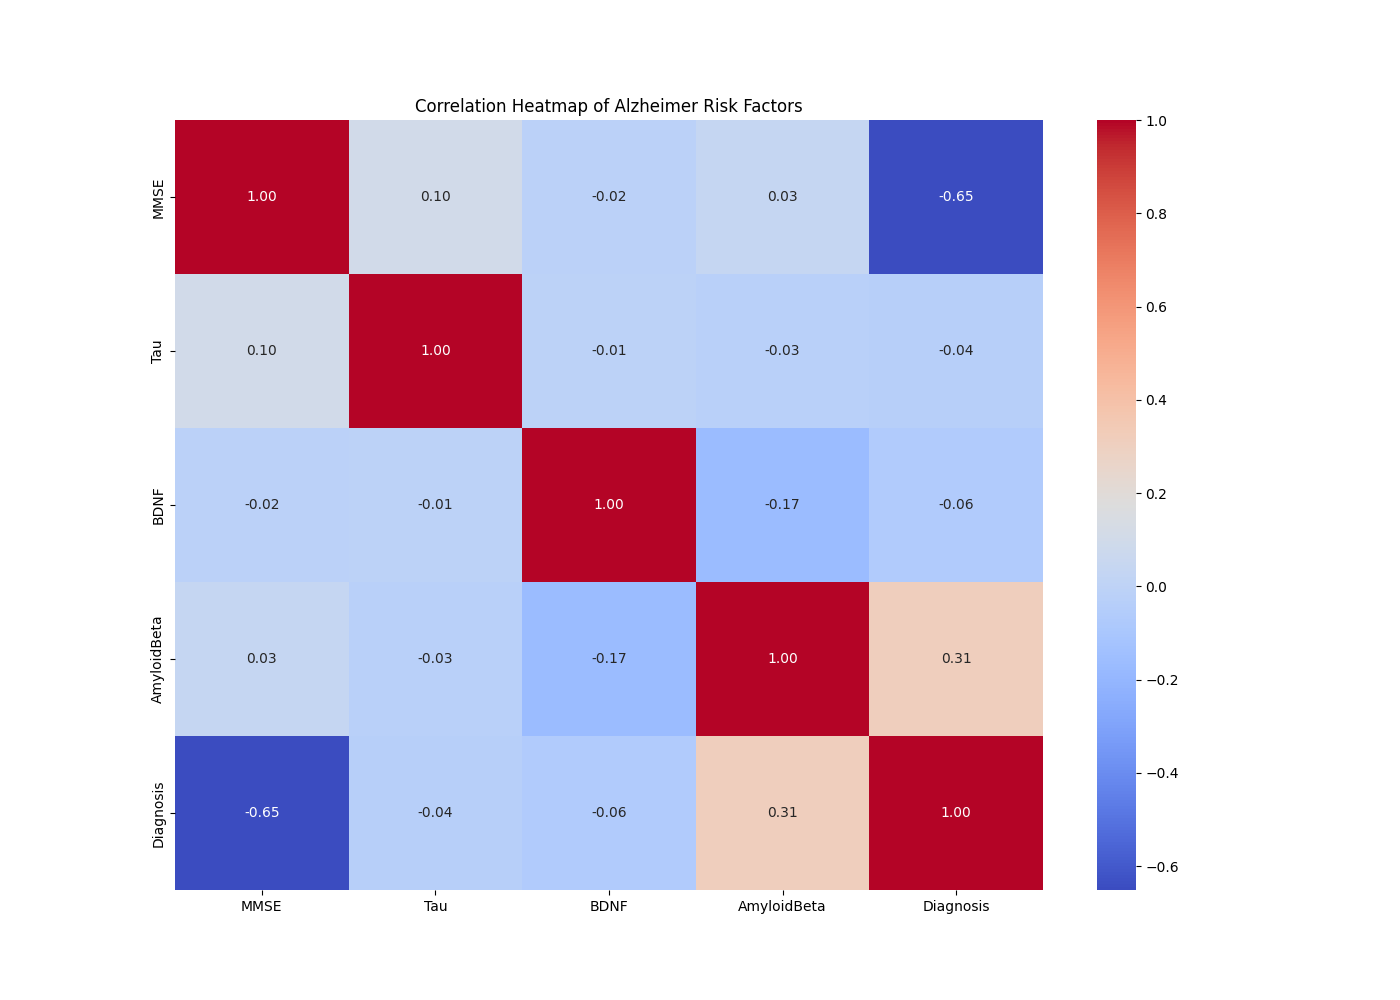
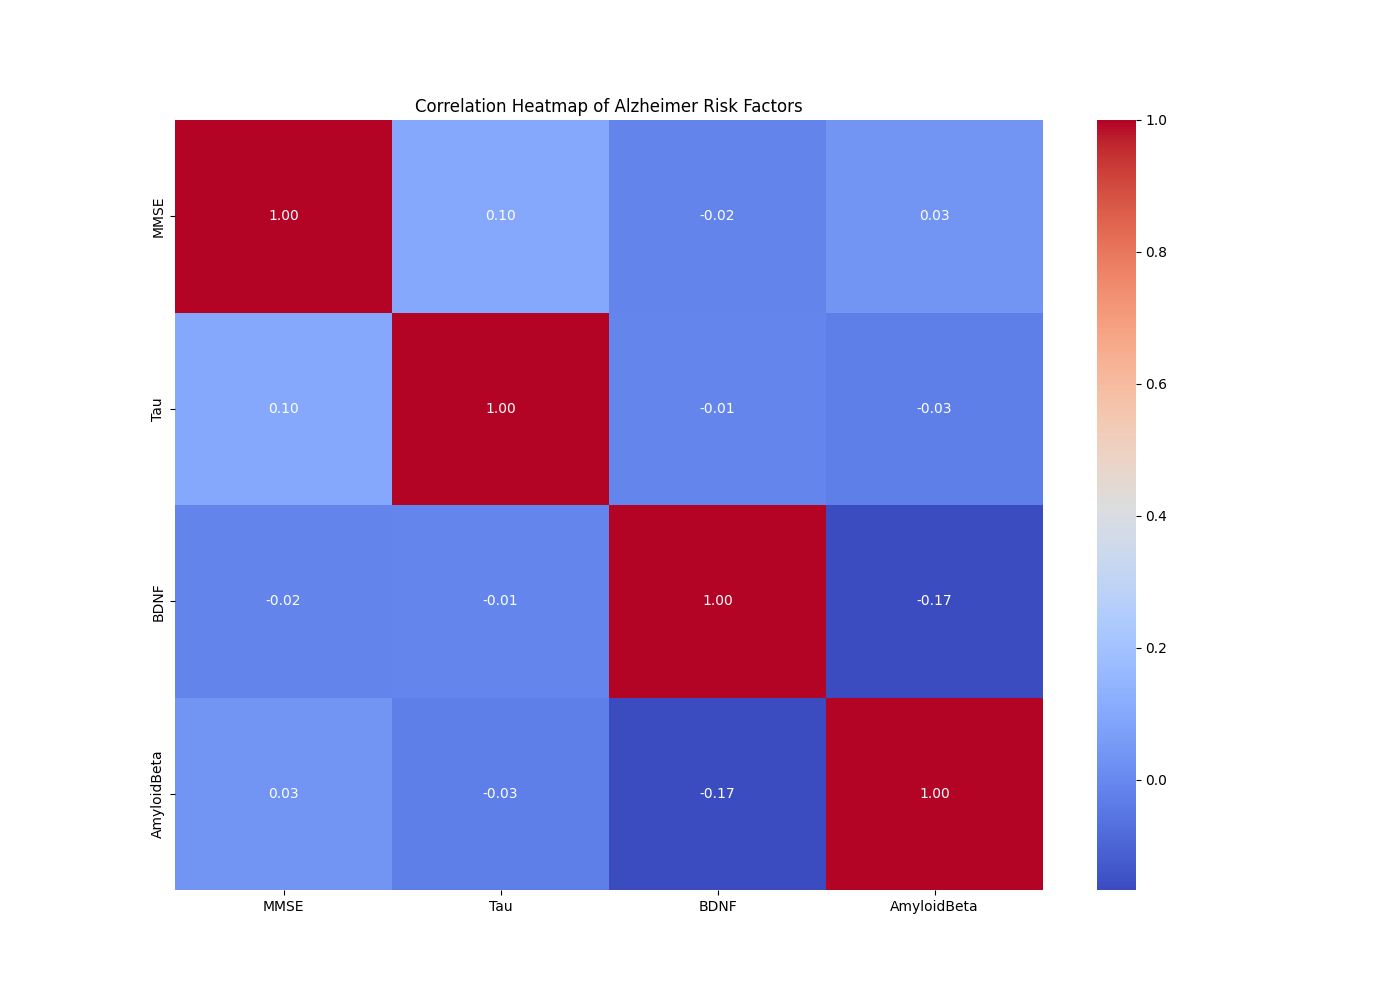
Initial commit

diff --git a/Plotting.py b/Plotting.py
@@ -10,19 +10,75 @@ from sklearn.metrics import classification_report, roc_curve, auc
 
 
 
-# -----------------------------
+
 # 1. قراءة البيانات
 # -----------------------------
 df = pd.read_csv("synthetic_adni_data.csv")
 
-X = df[['Age','MMSE','BDNF','Tau','AmyloidBeta','Diabetes','Hypertension']]
-y = df['Diagnosis']
 
-X_train, X_test, y_train, y_test = train_test_split(X, y, test_size=0.2, random_state=42)
 
-scaler = StandardScaler()
-X_train_scaled = scaler.fit_transform(X_train)
-X_test_scaled = scaler.transform(X_test)
+
+
+
+
+
+cols = [
+    'MMSE','Tau','BDNF','AmyloidBeta',
+]
+
+# مصفوفة الترابط
+corr = df[cols].corr()
+
+# رسم Heatmap
+plt.figure(figsize=(14,10))
+sns.heatmap(corr, annot=True, cmap="coolwarm", fmt=".2f")
+plt.title("Correlation Heatmap of Alzheimer Risk Factors")
+plt.savefig("Correlation Heatmap of Alzheimer Biomarkers.png")
+plt.show()
+
+
+
+
+
+
+
+
+
+correlations = df[['MMSE','Tau','BDNF','AmyloidBeta','Diagnosis']].corr()["Diagnosis"].drop("Diagnosis")
+
+plt.figure(figsize=(8,6))
+sns.barplot(x=correlations.index, y=correlations.values, color="gray")
+plt.title("Correlation with DiseaseStatus")
+plt.ylabel("Correlation Coefficient")
+plt.savefig("Correlation Coefficient.png")
+plt.show()
+
+
+
+
+
+
+
+
+
+
+
+df['DiagnosisBinary'] = (df['Diagnosis'] == 2).astype(int)
+
+df['AmyloidGroup'] = pd.qcut(df['AmyloidBeta'], 5)
+
+amyloid_risk = df.groupby('AmyloidGroup')['DiagnosisBinary'].mean()
+
+plt.figure(figsize=(8,5))
+plt.plot(amyloid_risk.index.astype(str), amyloid_risk.values, marker='o')
+plt.xticks(rotation=45)
+plt.xlabel("Amyloid Beta Group")
+plt.ylabel("Risk of Alzheimer")
+plt.title("Amyloid Level vs Alzheimer Risk")
+plt.tight_layout()
+plt.savefig("Amyloid Level vs Alzheimer Risk.png")
+plt.show()
+
 
 
 
@@ -128,55 +184,14 @@ plt.show()
 
 
 
-cols = [
-    'MMSE','Tau','BDNF','AmyloidBeta','Diagnosis'
-]
+X = df[['Age','MMSE','BDNF','Tau','AmyloidBeta','Diabetes','Hypertension']]
+y = df['Diagnosis']
 
-# مصفوفة الترابط
-corr = df[cols].corr()
+X_train, X_test, y_train, y_test = train_test_split(X, y, test_size=0.2, random_state=42)
 
-# رسم Heatmap
-plt.figure(figsize=(14,10))
-sns.heatmap(corr, annot=True, cmap="coolwarm", fmt=".2f")
-plt.title("Correlation Heatmap of Alzheimer Risk Factors")
-plt.savefig("Correlation Heatmap of Alzheimer Biomarkers.png")
-plt.show()
-
-
-
-
-
-
-
-
-
-
-
-
-
-
-
-df['DiagnosisBinary'] = (df['Diagnosis'] == 2).astype(int)
-
-df['AmyloidGroup'] = pd.qcut(df['AmyloidBeta'], 5)
-
-amyloid_risk = df.groupby('AmyloidGroup')['DiagnosisBinary'].mean()
-
-plt.figure(figsize=(8,5))
-plt.plot(amyloid_risk.index.astype(str), amyloid_risk.values, marker='o')
-plt.xticks(rotation=45)
-plt.xlabel("Amyloid Beta Group")
-plt.ylabel("Risk of Alzheimer")
-plt.title("Amyloid Level vs Alzheimer Risk")
-plt.tight_layout()
-plt.savefig("Amyloid Level vs Alzheimer Risk.png")
-plt.show()
-
-
-
-
-
-
+scaler = StandardScaler()
+X_train_scaled = scaler.fit_transform(X_train)
+X_test_scaled = scaler.transform(X_test)
 
 
 
